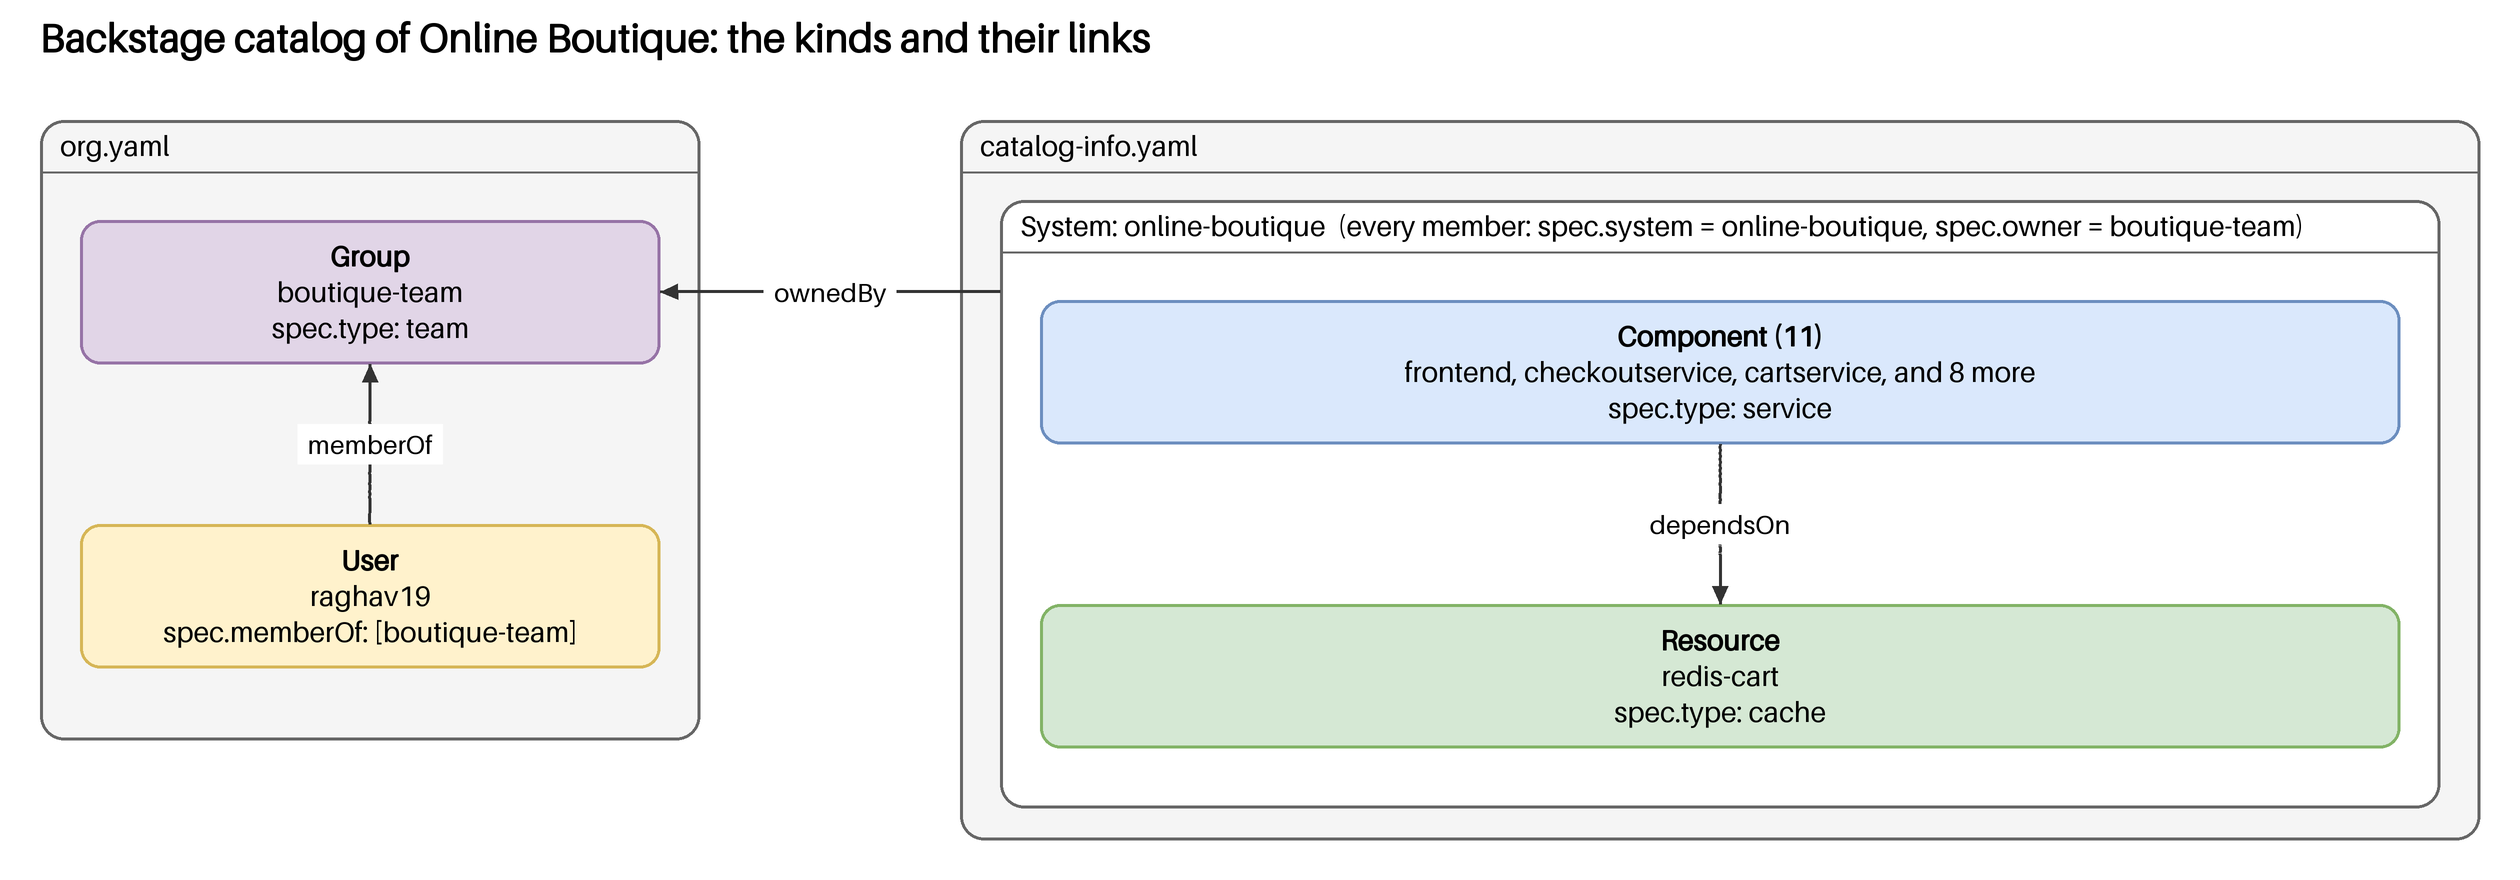
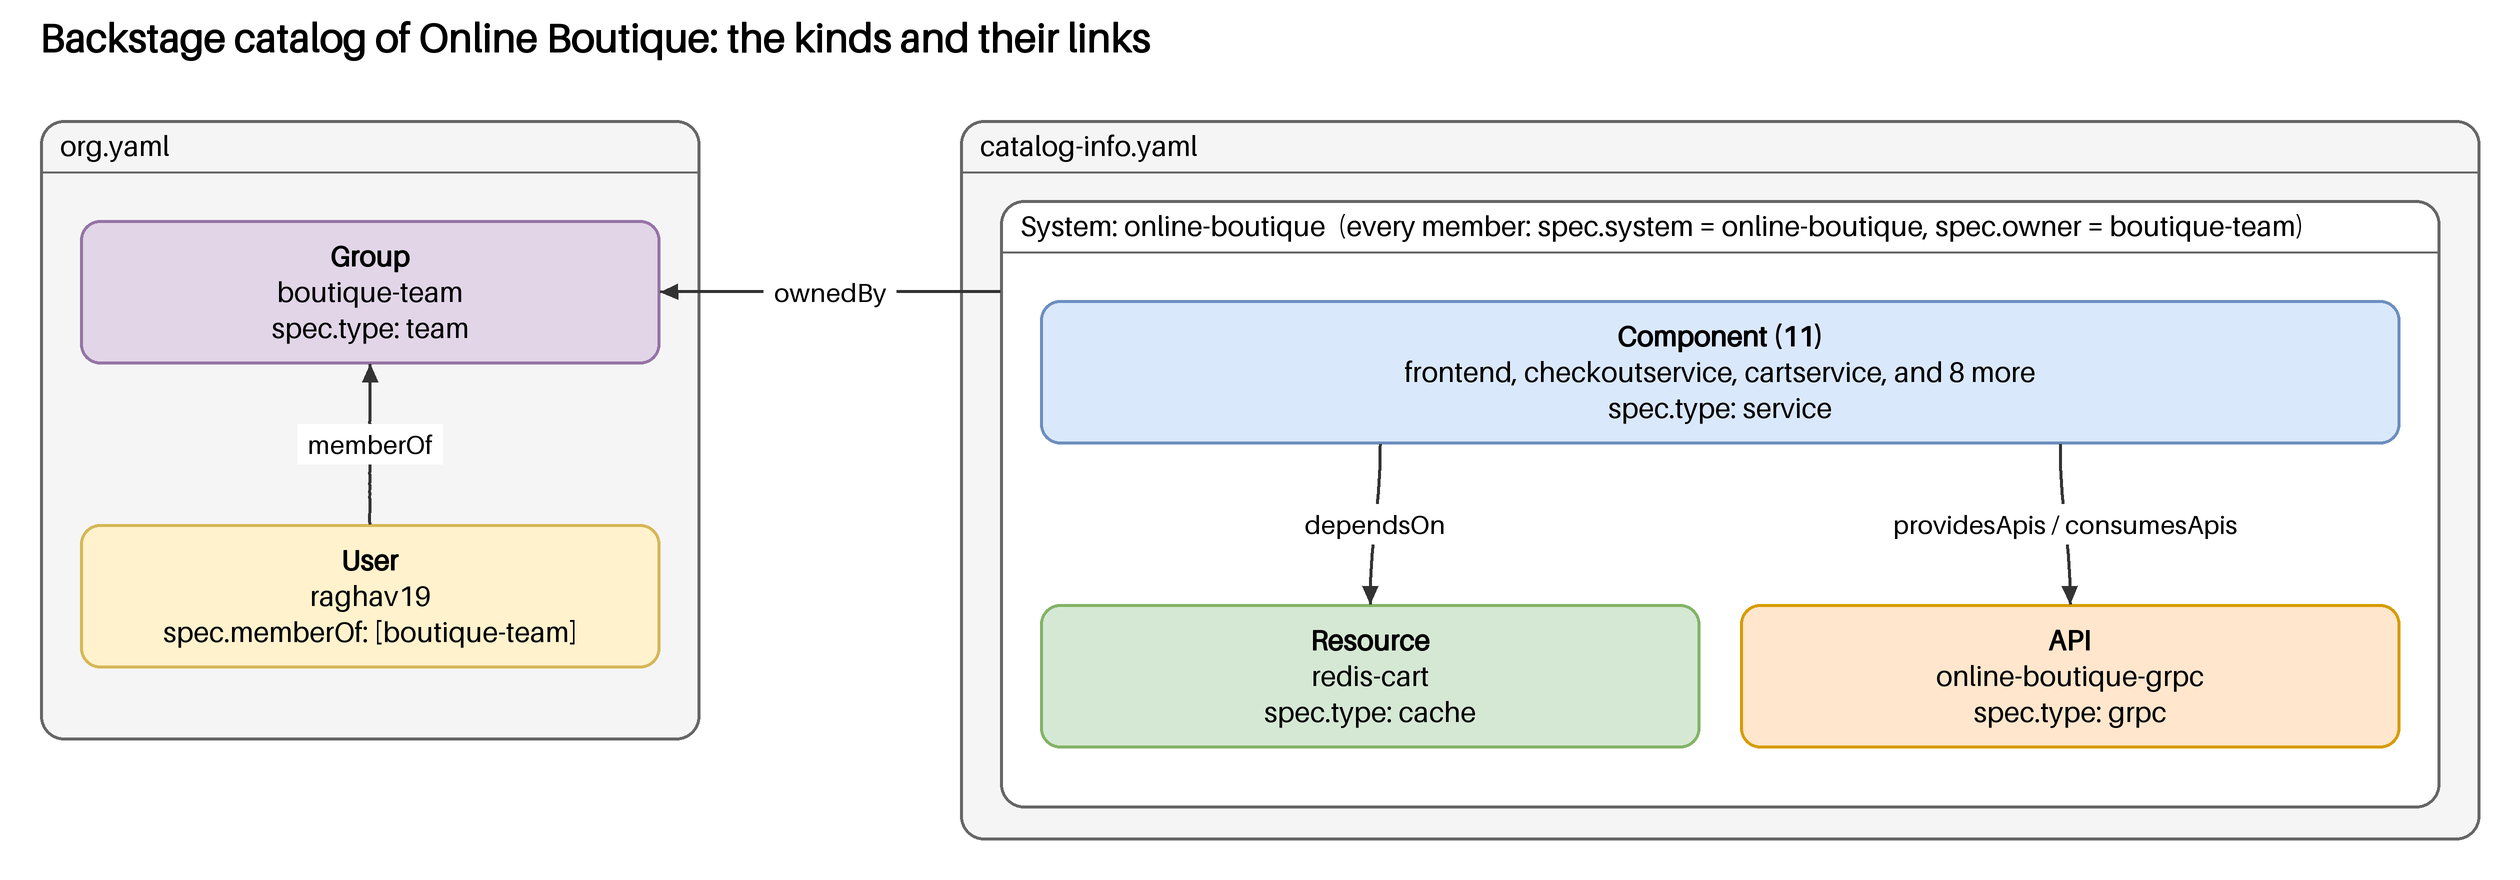
platform-engineering: explain the API, the annotations and the new diagram
Add the API kind to the kind and link tables, a section on the
annotations that the catalog and the plugins read, and a section on
the API definition and why demo.proto is a copy in this folder. Draw
the diagram again with the API box.

diff --git a/code/platform-engineering/apps/boutique/catalog/README.md b/code/platform-engineering/apps/boutique/catalog/README.md
@@ -6,6 +6,16 @@ This folder holds the files that describe Online Boutique for Backstage. The app
 
 The diagram shows one box for each kind of entity. It shows the links between the kinds, not the links between the 11 services. A Component is one of 11 services, and the box stands for all of them.
 
+A service page in Backstage answers these questions. Each one comes from a field in these files:
+
+| Question | Answer in the files |
+|---|---|
+| Who owns it? | `spec.owner` |
+| What does it need? | `spec.dependsOn` |
+| What interface does it offer or use? | `spec.providesApis`, `spec.consumesApis`, and the entity `online-boutique-grpc` |
+| Where is the code? | the annotation `backstage.io/source-location` |
+| What runs now? | the annotation `backstage.io/kubernetes-label-selector` (the Kubernetes tab) |
+
 Backstage has one catalog. The two files are two sources for that one catalog. Each entity links to the others by name, so the files can stay apart.
 
 ## The kinds we use
@@ -17,8 +27,9 @@ Backstage has one catalog. The two files are two sources for that one catalog. E
 | System | A collection of components and resources that work together and expose one or more public APIs. | You want one name for a product that has many parts. | `online-boutique` |
 | Component | A piece of software: a website, a backend service, a library, or a data pipeline. | You build or run it. Make one Component for each service. | 11 services, type `service` |
 | Resource | The infrastructure a component needs at runtime: a database, a topic, a bucket, a cache. | You want to show what the software needs to work. | `redis-cart`, type `cache` |
+| API | An interface that a component offers, in a machine-readable format: OpenAPI, AsyncAPI, GraphQL, or gRPC. | A component has an interface that other software calls. | `online-boutique-grpc`, type `grpc`. It holds `demo.proto`. |
 
-## The four links
+## The links
 
 Each link starts as a field in the `spec` of one entity. Backstage turns the field into a relation. It also adds the reverse relation on the other entity.
 
@@ -28,16 +39,37 @@ Each link starts as a field in the `spec` of one entity. Backstage turns the fie
 | Who owns it | `spec.owner` | `ownedBy` (`ownerOf`) | The System, the 11 Components, and the Resource name `boutique-team`. |
 | Part of a system | `spec.system` | `partOf` (`hasPart`) | The 11 Components and the Resource name `online-boutique`. |
 | Needs another entity | `spec.dependsOn` | `dependsOn` (`dependencyOf`) | `cartservice` depends on `redis-cart`. Four other Components depend on other Components. |
+| Offers an interface | `spec.providesApis` | `providesApi` (`apiProvidedBy`) | 9 Components provide `online-boutique-grpc`: the 9 services that `demo.proto` defines. |
+| Uses an interface | `spec.consumesApis` | `consumesApi` (`apiConsumedBy`) | 3 Components consume it: `frontend`, `checkoutservice`, `recommendationservice`. They depend on a Component that provides it. |
 
 An entity reference has the form `[kind:][namespace/]name`, for example `group:default/boutique-team`. You can leave out the kind or the namespace when the context gives a default. The default namespace is `default`.
 
 The group field `spec.children` lists child groups, not users. Our list is empty.
 
+## The annotations we use
+
+An annotation is a key under `metadata.annotations`. A plugin reads it to do its work. The key is the contract between the catalog and the plugin.
+
+| Annotation | Read by | Our value |
+|---|---|---|
+| `backstage.io/kubernetes-namespace` and `backstage.io/kubernetes-label-selector` | The Kubernetes plugin | `boutique` and `app=<service>`. The pods of the shop carry that label. |
+| `backstage.io/source-location` | The catalog, for the link to the code | `url:` and the folder `src/<service>/` of microservices-demo at the commit `5b608cb`. A folder URL must end with `/`. |
+| `github.com/user-id` on the User | The GitHub sign-in, later | The node ID of the GitHub user (`MDQ6VXNlcjIxMDc1MDU5`). It is not the number of the user. |
+
+The source link points to the Google repo, not to this repo, because the code of the services lives there.
+
+## The API definition
+
+The entity `online-boutique-grpc` holds the file `demo.proto` in `spec.definition`. The line `$text: ./demo.proto` tells the catalog to read the file next to `catalog-info.yaml`.
+
+- The file in this folder is a verbatim copy of `protos/demo.proto` from microservices-demo `v0.10.7` (commit `5b608cb`). The SHA-256 of the copy and of the upstream file is the same. The file keeps its Apache-2.0 header.
+- We need the copy. A `$text` placeholder on GitHub can read only files of the same repository as the catalog file. A link to the Google repo failed with the message "Placeholder may only reference files from the same repository as the entity".
+- One proto file defines all 9 gRPC services. So there is one API entity, not nine. The entity does not say which service offers which call. `demo.proto` does.
+
 ## Kinds we do not use yet
 
 | Kind | What it is | Use it when |
 |---|---|---|
-| API | The boundary between components, in a machine-readable format. | A Component offers an interface. The Boutique services have gRPC `.proto` files, so each one could have an API entity. |
 | Domain | A group of systems that share terminology, metrics, or a business purpose. | You have many systems. |
 | Template | The form and the steps that make new software. | You use the scaffolder to create a service. |
 | Location | A marker that points to other files with catalog data. | Backstage makes one for each URL in `catalog.locations`. |
@@ -51,7 +83,7 @@ The group field `spec.children` lists child groups, not users. Our list is empty
 | The group holds a set of users. | Right | You write the membership on the user (`spec.memberOf`, required). |
 | The Boutique has another catalog. | Not exact | There is one catalog. `catalog-info.yaml` is one more file that feeds it. |
 | Components map to services. | Partly right | A component is "a piece of software", here of the type `service`. It is not the Kubernetes Service. The annotation `backstage.io/kubernetes-label-selector` links it to the pods. |
-| The System is the overarching app. | Right | Our system has no API entities yet. |
+| The System is the overarching app. | Right | A system is "a collection of resources and components that exposes one or several public APIs". Ours exposes one API, `online-boutique-grpc`. |
 | The Resource is a dependency. | Right | A resource is the infrastructure "a component needs to operate at runtime". |
 | Components have metadata with the group and the user they belong to. | Fix | The owner is `spec.owner`, not metadata. A component has one owner. The owner is a group (the default) or a user. Our files name the group only. The user connects through the membership. |
 | Ownership and dependency are one mapping. | Fix | They are two fields with two meanings: `spec.owner` and `spec.dependsOn`. |
@@ -62,15 +94,18 @@ The docs also say what ownership is for. The owner is the "point of contact if s
 
 - How the Backstage UI finds "my components" for a signed-in user. I expect it uses the group membership of the user. The docs I read do not say so.
 - Which plugin shows which relation in the UI. The docs say plugins read the relations "as needed".
+- How the UI shows the `grpc` definition. The docs say an `openapi` API can show in an OpenAPI viewer. They do not say what a `grpc` API shows. I expect plain text.
+- The source link on the service page. I tested that the catalog accepts the annotation: the endpoint `validate-entity` of the running Backstage accepted all 14 entities. I did not see the link on screen.
 
 ## Sources
 
 I read these pages from the Backstage repo (`backstage/backstage`, commit `bc53efe`, folder `docs/features/software-catalog`):
 
 - [System model](https://backstage.io/docs/features/software-catalog/system-model)
-- [Descriptor format](https://backstage.io/docs/features/software-catalog/descriptor-format) (the kinds and the relations field)
+- [Descriptor format](https://backstage.io/docs/features/software-catalog/descriptor-format) (the kinds, the relations field, and the substitutions such as `$text`)
 - [Entity references](https://backstage.io/docs/features/software-catalog/references)
 - [Well-known relations](https://backstage.io/docs/features/software-catalog/well-known-relations)
+- [Well-known annotations](https://backstage.io/docs/features/software-catalog/well-known-annotations) (`backstage.io/source-location`, `github.com/user-id`)
 - [Life of an entity](https://backstage.io/docs/features/software-catalog/life-of-an-entity)
 
 The dependencies come from the `*_ADDR` variables in the pinned release manifest of Online Boutique. A script drew the diagram from the two files in this folder. See [docs/diagrams](../../../docs/diagrams/README.md).

diff --git a/code/platform-engineering/apps/boutique/README.md b/code/platform-engineering/apps/boutique/README.md
@@ -20,8 +20,9 @@ The folder `catalog/` describes Online Boutique for Backstage. Its [README](cata
 
 | File | Content |
 |---|---|
-| `catalog/catalog-info.yaml` | The System `online-boutique`, 11 Components, and the Resource `redis-cart`. |
+| `catalog/catalog-info.yaml` | The System `online-boutique`, 11 Components, the Resource `redis-cart`, and the API `online-boutique-grpc`. |
 | `catalog/org.yaml` | The Group `boutique-team` and the User `raghav19`. |
+| `catalog/demo.proto` | A verbatim copy of the gRPC definition of microservices-demo `v0.10.7`. The API entity reads it. |
 
 Each Component lists the services it calls in `dependsOn`. The list comes from the `*_ADDR` variables in the release manifest.
 
